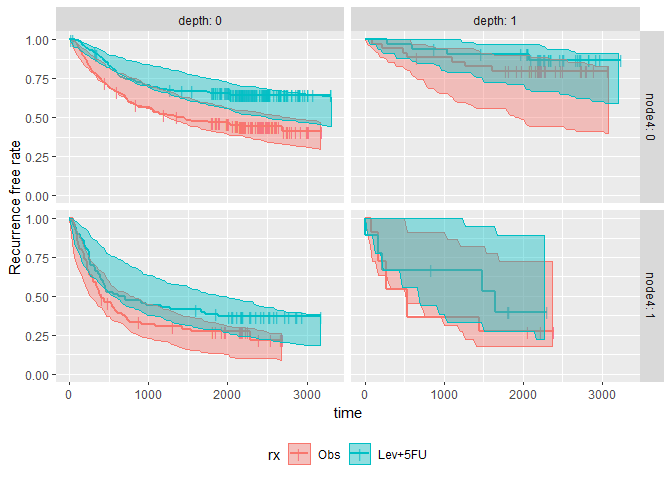
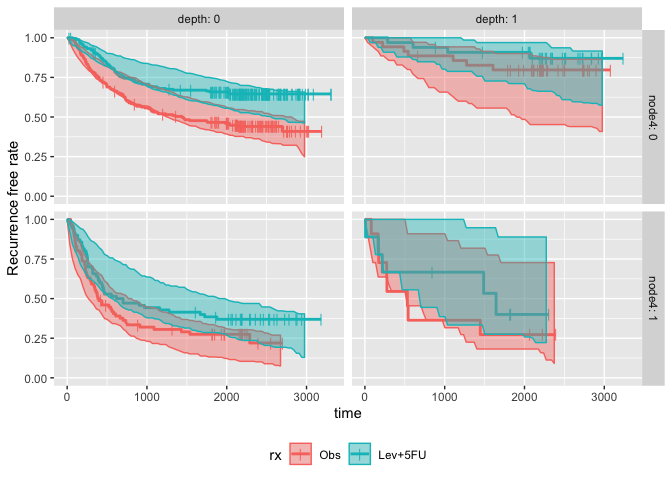
Updating documentations

diff --git a/README.md b/README.md
@@ -5,11 +5,7 @@ survParamSim
 
 [![Travis build status](https://travis-ci.org/yoshidk6/survParamSim.svg?branch=master)](https://travis-ci.org/yoshidk6/survParamSim)
 
-The goal of survParamSim is to perform survival simulation with parametric survival model generated from 'survreg' function in 'survival' package.
-
-Outputs include prediction intervals of Kaplan-Meier estimates and hazard ratio of treatment effect. You can also access raw simulated survival profiles of each simulation for post-processing.
-
-In each simulation, coefficients are resampled from variance-covariance matrix of parameter estimates to capture uncertainty in model parameters.
+The goal of survParamSim is to perform survival simulation with parametric survival model generated from 'survreg' function in 'survival' package. In each simulation, coefficients are resampled from variance-covariance matrix of parameter estimates, in order to capture uncertainty in model parameters.
 
 Installation
 ------------
@@ -24,12 +20,20 @@ devtools::install_git("https://github.com/yoshidk6/survParamSim")
 Example
 -------
 
-This is a basic example which shows you how to solve a common problem.
+[This GitHub pages](https://yoshidk6.github.io/survParamSim) contains function references and [vignette](https://yoshidk6.github.io/survParamSim/articles/survParamSim.html). The example below is a sneak peek of example outputs.
 
 First, run survreg to fit parametric survival model:
 
 ``` r
 library(dplyr)
+#> 
+#> Attaching package: 'dplyr'
+#> The following objects are masked from 'package:stats':
+#> 
+#>     filter, lag
+#> The following objects are masked from 'package:base':
+#> 
+#>     intersect, setdiff, setequal, union
 library(ggplot2)
 library(survival)
 library(survParamSim)
@@ -50,34 +54,16 @@ colon2 <-
 ``` r
 fit.colon <- survreg(Surv(time, status) ~ rx + node4 + depth, 
                      data = colon2, dist = "lognormal")
-
-summary(fit.colon)
-#> 
-#> Call:
-#> survreg(formula = Surv(time, status) ~ rx + node4 + depth, data = colon2, 
-#>     dist = "lognormal")
-#>               Value Std. Error     z       p
-#> (Intercept)  7.5103     0.1343 55.92 < 2e-16
-#> rxLev+5FU    0.7606     0.1677  4.54 5.7e-06
-#> node4       -1.3474     0.1816 -7.42 1.2e-13
-#> depth        1.1243     0.2661  4.22 2.4e-05
-#> Log(scale)   0.6040     0.0461 13.10 < 2e-16
-#> 
-#> Scale= 1.83 
-#> 
-#> Log Normal distribution
-#> Loglik(model)= -2561.7   Loglik(intercept only)= -2607.6
-#>  Chisq= 91.8 on 3 degrees of freedom, p= 9e-20 
-#> Number of Newton-Raphson Iterations: 4 
-#> n= 619
 ```
 
 Next, run parametric bootstrap simulation:
 
 ``` r
-sim <- surv_param_sim(object = fit.colon, newdata = colon2, 
-                      # Simulating only 100 times to make the example go fast
-                      n.rep = 100)
+sim <- 
+  surv_param_sim(object = fit.colon, newdata = colon2, 
+                 censor.dur = c(1800, 3000),
+                 # Simulating only 100 times to make the example go fast
+                 n.rep = 100)
 
 sim
 #> ---- Simulated survival data with the following model ----
@@ -96,7 +82,7 @@ sim
 Calculate survival curves with prediction intervals:
 
 ``` r
-km.pi <- calc_km_pi(sim, trt = "rx")
+km.pi <- calc_km_pi(sim, trt = "rx", group = c("node4", "depth"))
 
 km.pi
 #> ---- Simulated and observed (if calculated) survival curves ----
@@ -106,23 +92,9 @@ km.pi
 #> 
 #> * Settings:
 #>     trt: rx 
-#>     group: (NULL) 
+#>     group: node4 
 #>     pi.range: 0.95 
 #>     calc.obs: TRUE
-plot_km_pi(km.pi) +
-  theme(legend.position = "bottom") +
-  labs(y = "Recurrence free rate") +
-  expand_limits(y = 0)
-```
-
-<img src="man/figures/README-km_pi-1.png" width="100%" />
-
-Plot can be made for subgroups.
-You can see that prediction interval is wide for depth: 1 and nodes4: 1 group, mainly due to small number of subjects
-
-``` r
-km.pi <- calc_km_pi(sim, trt = "rx", group = c("node4", "depth"))
-
 plot_km_pi(km.pi) +
   theme(legend.position = "bottom") +
   labs(y = "Recurrence free rate") +
@@ -133,10 +105,8 @@ plot_km_pi(km.pi) +
 
 Calculate hazard ratios with prediction intervals:
 
-You can again see the wide prediction interval for depth: 1 and nodes4: 1 group
-
 ``` r
-hr.pi <- calc_hr_pi(sim, trt = "rx", group = c("node4", "depth"))
+hr.pi <- calc_hr_pi(sim, trt = "rx", group = c("depth"))
 
 hr.pi
 #> ---- Simulated and observed (if calculated) hazard ratio ----
@@ -147,7 +117,7 @@ hr.pi
 #> * Settings:
 #>     trt: rx
 #>          (Lev+5FU as test trt, Obs as control)
-#>     group: node4 
+#>     group: depth 
 #>     pi.range: 0.95 
 #>     calc.obs: TRUE
 plot_hr_pi(hr.pi)
